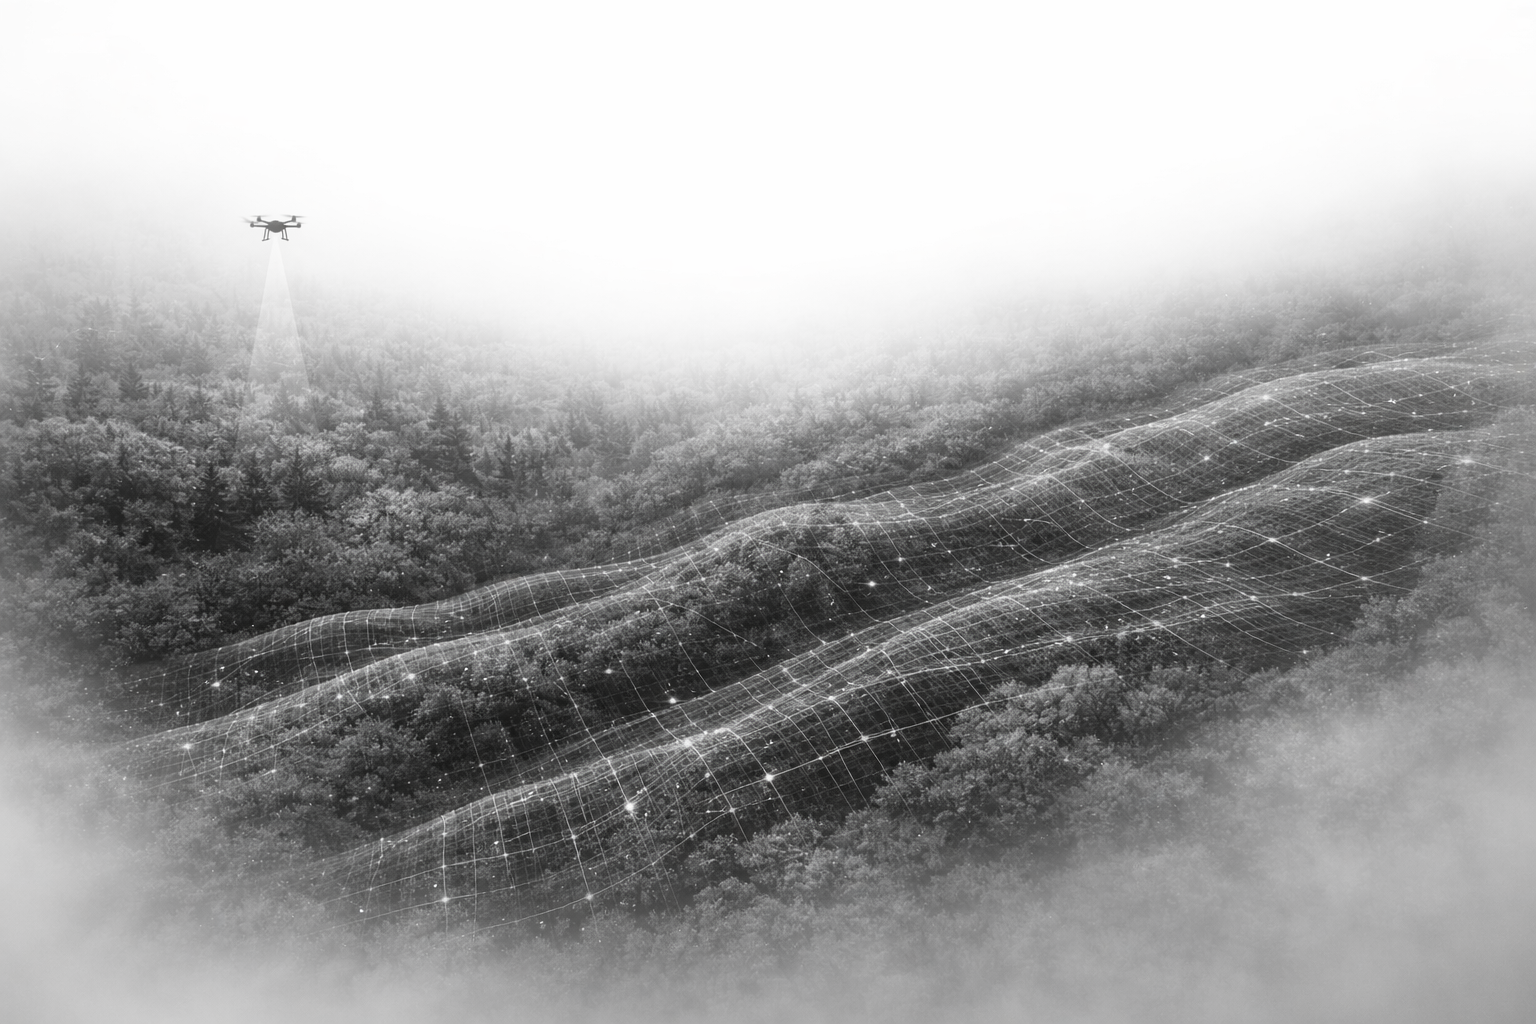
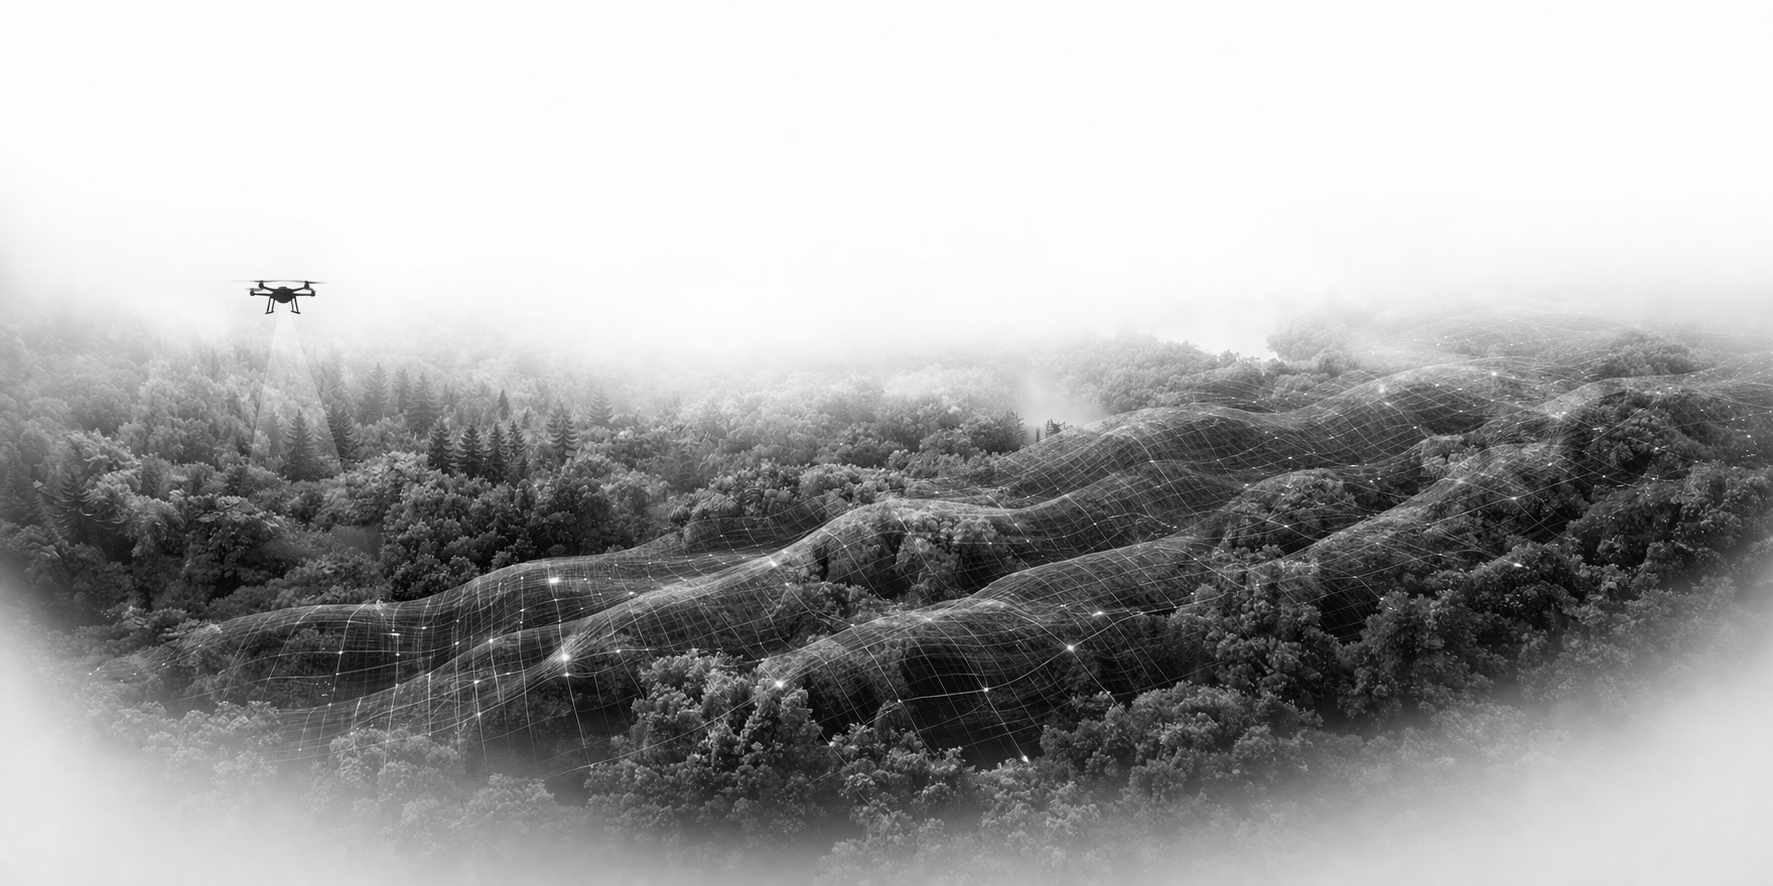
Use correct hero image: drone_map_hero.png

diff --git a/app/page.tsx b/app/page.tsx
@@ -70,7 +70,7 @@ export default function Home() {
       <section className="relative border-b border-gray-100 overflow-hidden" style={{ minHeight: "560px" }}>
         {/* Full-bleed image */}
         <img
-          src="/images/hero-landscape.png"
+          src="/images/drone-map-hero.png"
           alt="Environmental survey landscape"
           className="absolute inset-0 w-full h-full object-cover"
           style={{
